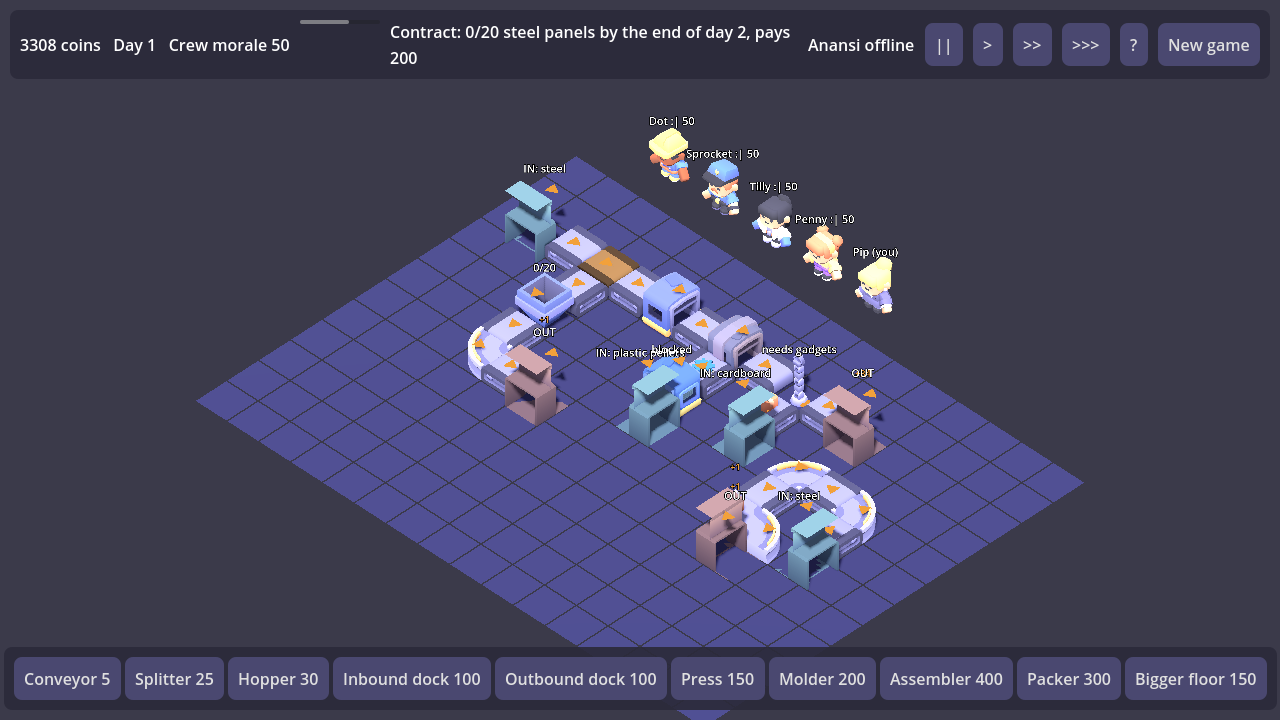
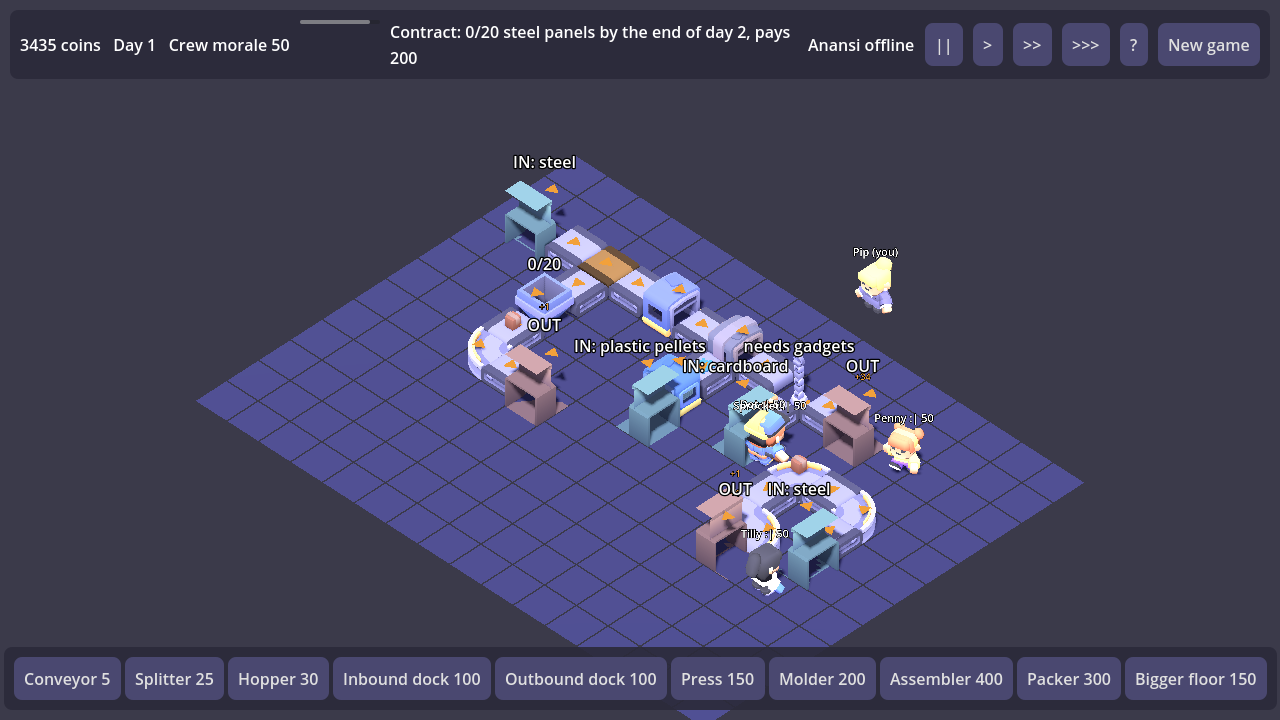
Hoppertunity: people walk around buildings (AStarGrid2D)

diff --git a/examples/hoppertunity/README.md b/examples/hoppertunity/README.md
@@ -92,7 +92,8 @@ misses three deadlines and has not won by day 20. A full 28x24 floor of moving b
 
 ## Not done yet
 
-- Forklifts, and paths: Pip and the coworkers walk in straight lines, through machines if need be.
+- Forklifts. People walk around buildings (Godot's `AStarGrid2D`), but not around each other, and where they stand
+  changes nothing in the sim.
 - The sound effects (Kenney, CC0) and the music loop ("Bossa Nova" by Joth, CC0) were chosen by name and wired up on
   a machine with no audio device: nobody has listened to them in the game yet.
 - The browser build was run by hand in Chrome on a 2013 laptop GPU (Quadro K1100M), without a gateway and with one
